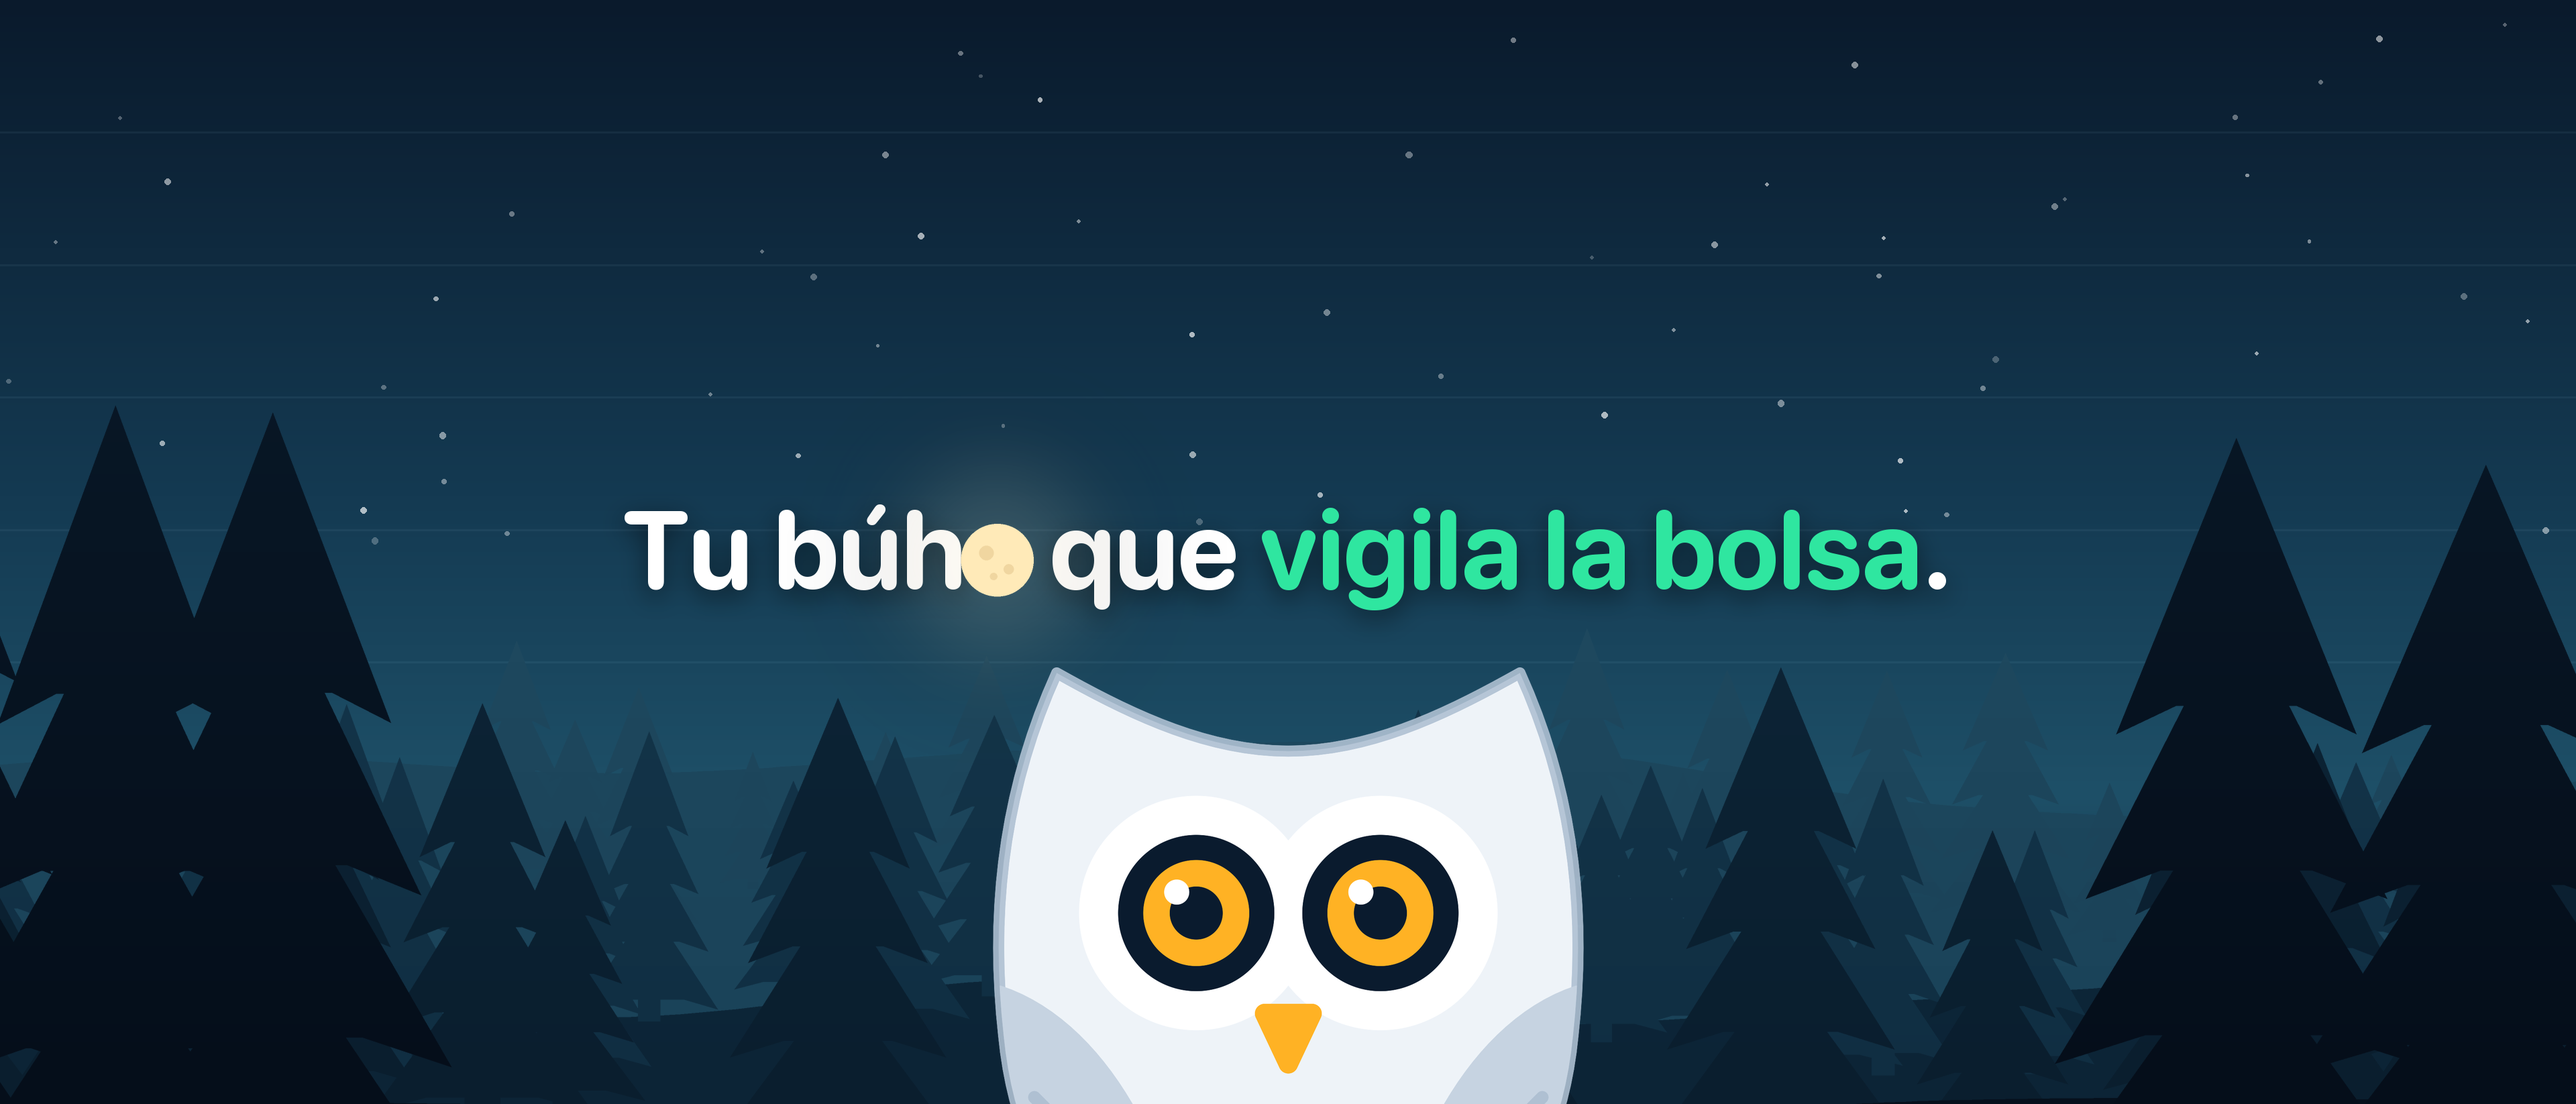
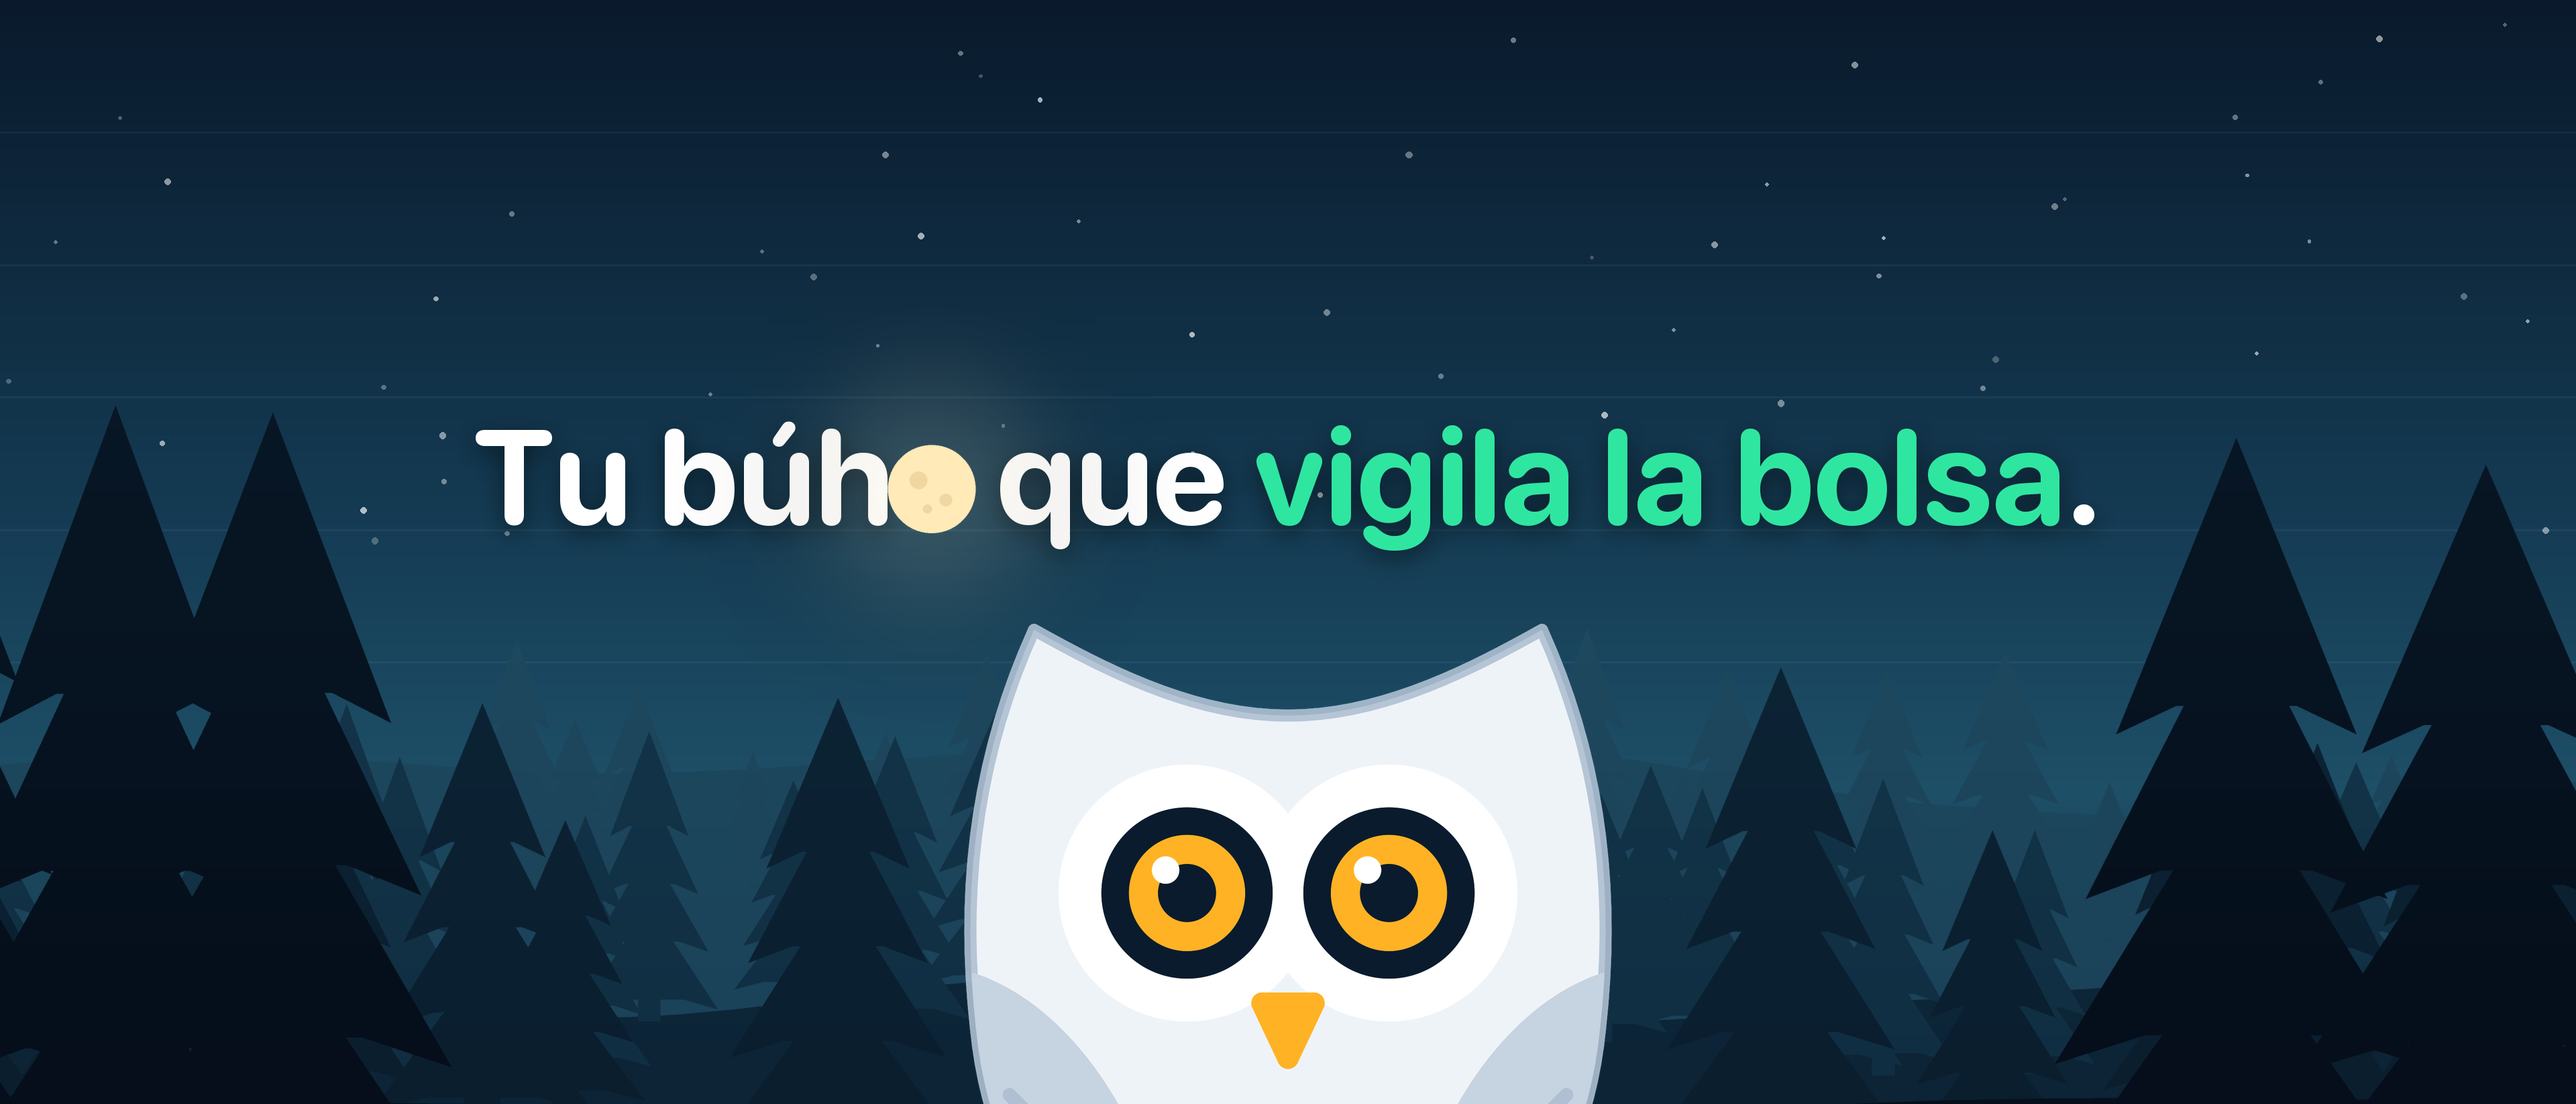
Header: the 21:9 version gets a bigger line (two-thirds of the width) and a bigger Dippy, since it shows wide on iPad and Mac; a soft vignette draws the eye to the middle

Changed region(s): [[0.1875, 0.3718, 0.8125, 1.0]]

diff --git a/Marketing/ScreenshotStudio/compose.py b/Marketing/ScreenshotStudio/compose.py
@@ -1423,8 +1423,21 @@ def header(raw, raw_dir, size, lang="en"):
     canvas = forest(size, cx, moon=False, drop=0.1, front_gap=0.8)
     # The line sits right below iPhone's back and share buttons, as wide as the space between the screen's edges
     # allows; Dippy rises under it, his beak just above the bottom edge.
-    moonlit_line(canvas, TAGLINES[lang], cx, 0, lang, H * 0.15, H * 1.25, u, middle=H * 0.505)
-    perch(canvas, raw_dir, "idle", cx, H * 0.605 + H * 0.62 * 0.97, H * 0.62)
+    # A soft vignette: the edges fall a little darker, so the eye goes to the middle, the way premium art is lit.
+    shade = Image.new("L", (64, 36), 0)
+    ImageDraw.Draw(shade).ellipse((-14, -10, 78, 46), fill=255)
+    shade = shade.filter(ImageFilter.GaussianBlur(7)).resize((W, H), Image.BICUBIC)
+    vignette = Image.new("RGBA", (W, H), (4, 10, 20, 0))
+    vignette.putalpha(shade.point(lambda v: round((255 - v) * 0.5)))
+    canvas.alpha_composite(vignette)
+
+    if W / H > 2:
+        # The 21:9 header is shown wide, on iPad and Mac, without iPhone's crop: a bigger line and a bigger Dippy.
+        moonlit_line(canvas, TAGLINES[lang], cx, 0, lang, H * 0.19, W * 0.64, u, middle=H * 0.44)
+        perch(canvas, raw_dir, "idle", cx, H * 0.565 + H * 0.68 * 0.97, H * 0.68)
+    else:
+        moonlit_line(canvas, TAGLINES[lang], cx, 0, lang, H * 0.15, H * 1.25, u, middle=H * 0.505)
+        perch(canvas, raw_dir, "idle", cx, H * 0.605 + H * 0.62 * 0.97, H * 0.62)
     return canvas
 
 
